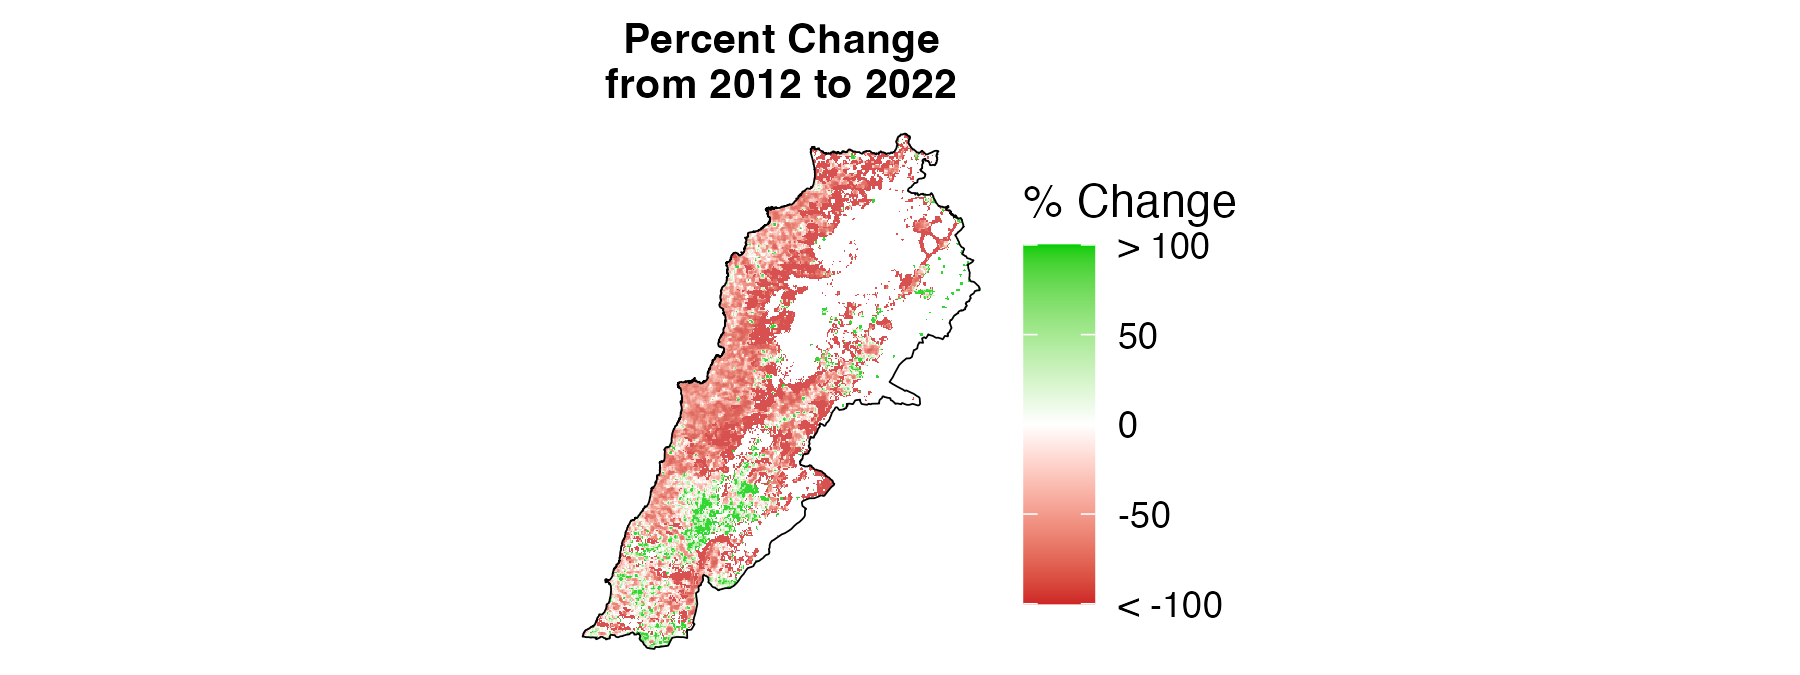
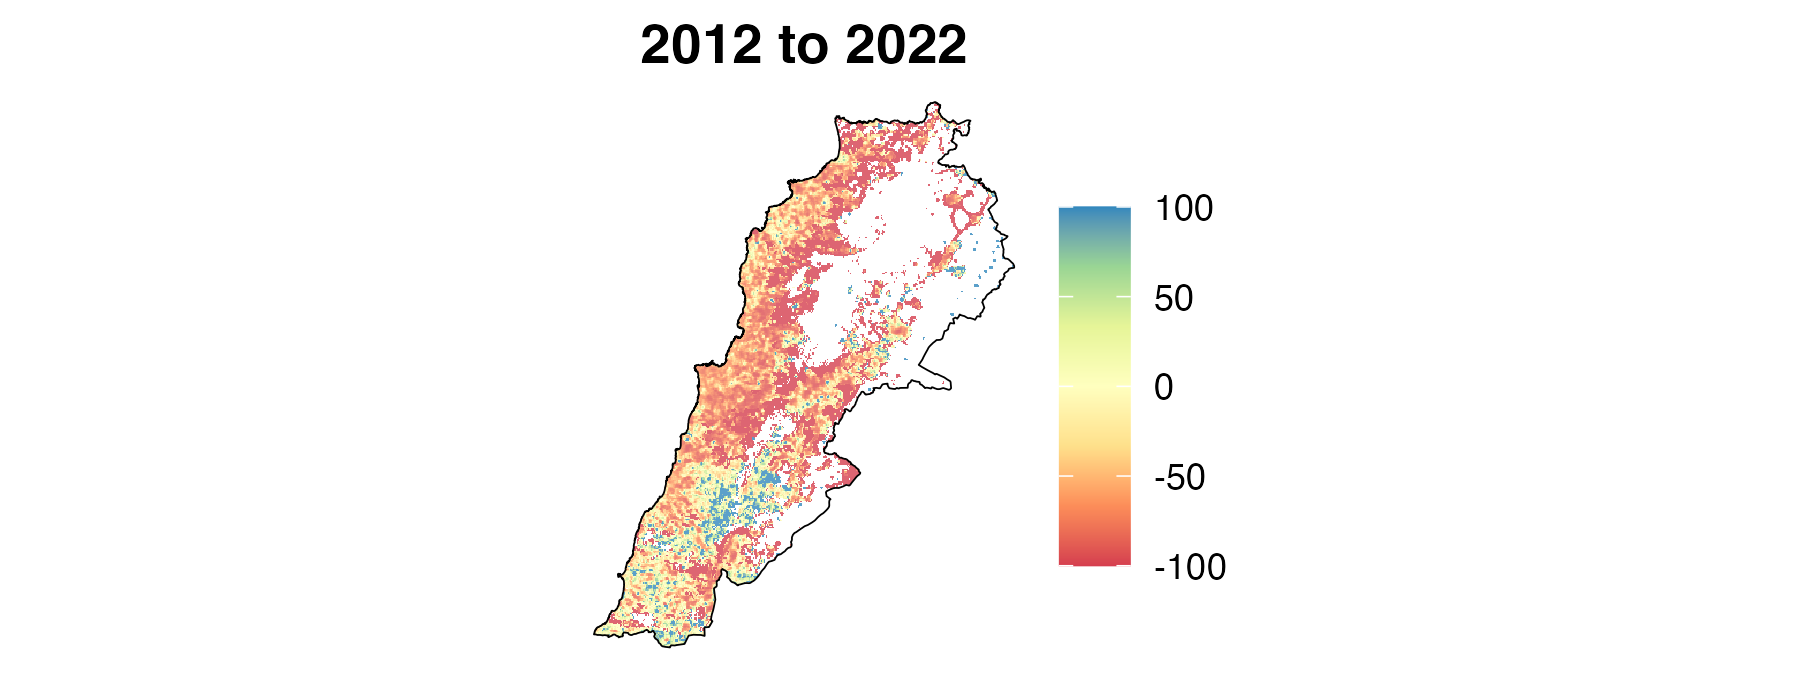
dmsp pixel maps

Changed region(s): [[0.3111, 0.0311, 0.6844, 0.9644]]

diff --git a/notebooks/ntl-analysis/README.md b/notebooks/ntl-analysis/README.md
@@ -105,7 +105,9 @@ Monthly Trends in Nighttime Lights: Governorate Level
 
 ### Change in Nighttime Lights: Pixel Level
 
-This section shows changes at the 500 meter pixel level from 2012 to 2022.
+#### 2012 to 2022
+
+The below figures show changes at the 500 meter pixel level from 2012 to 2022.
 
 ```{figure} figures/ntl_change_2012_2022_bin.png
 ---
@@ -123,6 +125,45 @@ align: center
 Percent Change in Nighttime Lights
 ```
 
+#### 2010 to 2012
+
+The below figures show changes at the 1 kilometer pixel level from 2010 to 2012.
+
+```{figure} figures/ntl_change_2010_2012_bin.png
+---
+scale: 40%
+align: center
+---
+Change in Nighttime Lights
+```
+
+```{figure} figures/ntl_change_2010_2012_pc.png
+---
+scale: 40%
+align: center
+---
+Change in Nighttime Lights
+```
+
+#### 2011 to 2012
+
+The below figures show changes at the 1 kilometer pixel level from 2011 to 2012.
+
+```{figure} figures/ntl_change_2011_2012_bin.png
+---
+scale: 40%
+align: center
+---
+Change in Nighttime Lights
+```
+
+```{figure} figures/ntl_change_2011_2012_pc.png
+---
+scale: 40%
+align: center
+---
+Change in Nighttime Lights
+```
 
 ### Change in Nighttime Lights: Different ADM Levels
 
